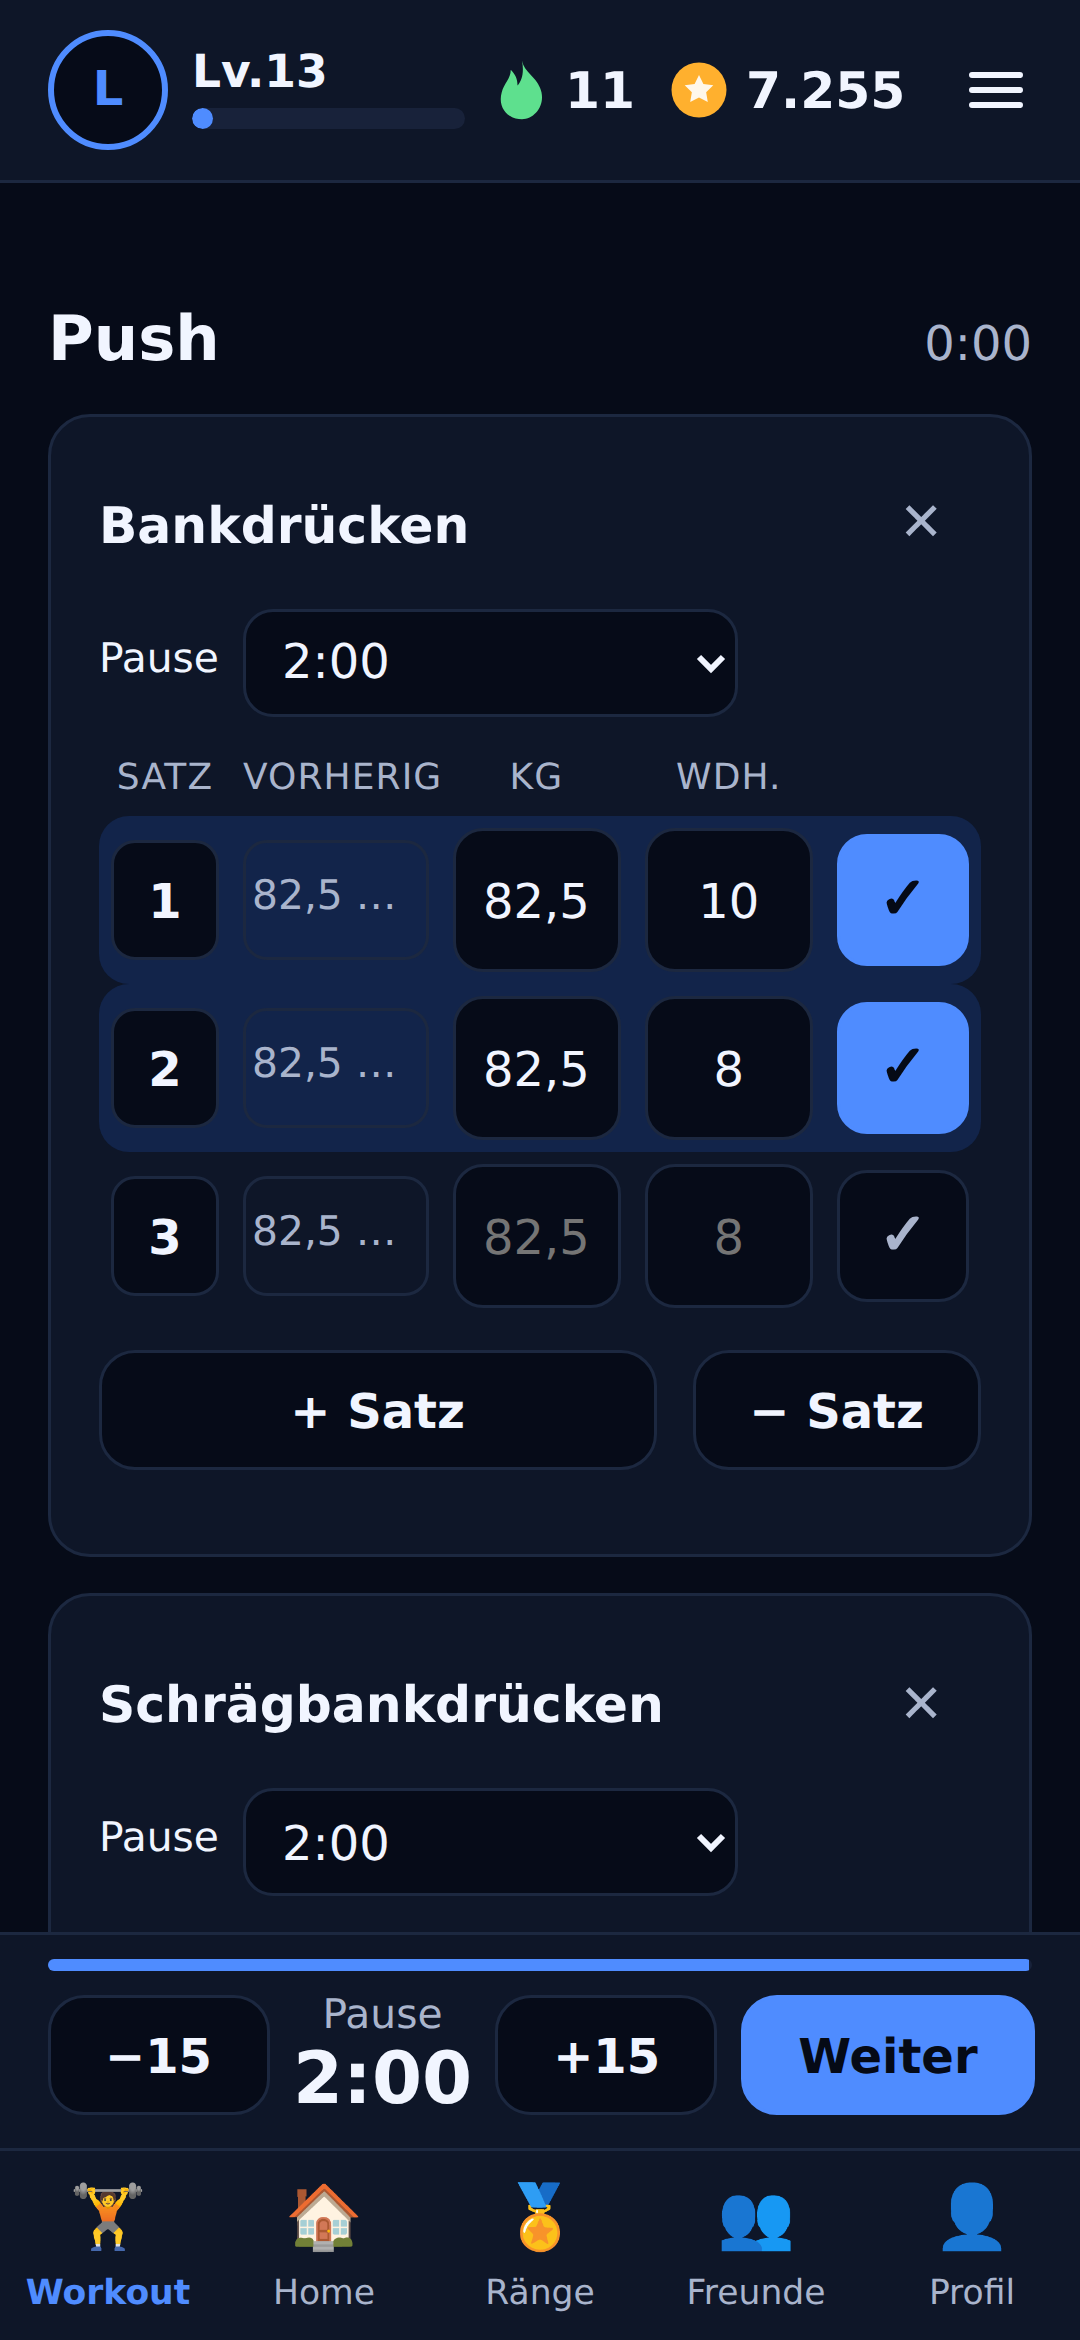
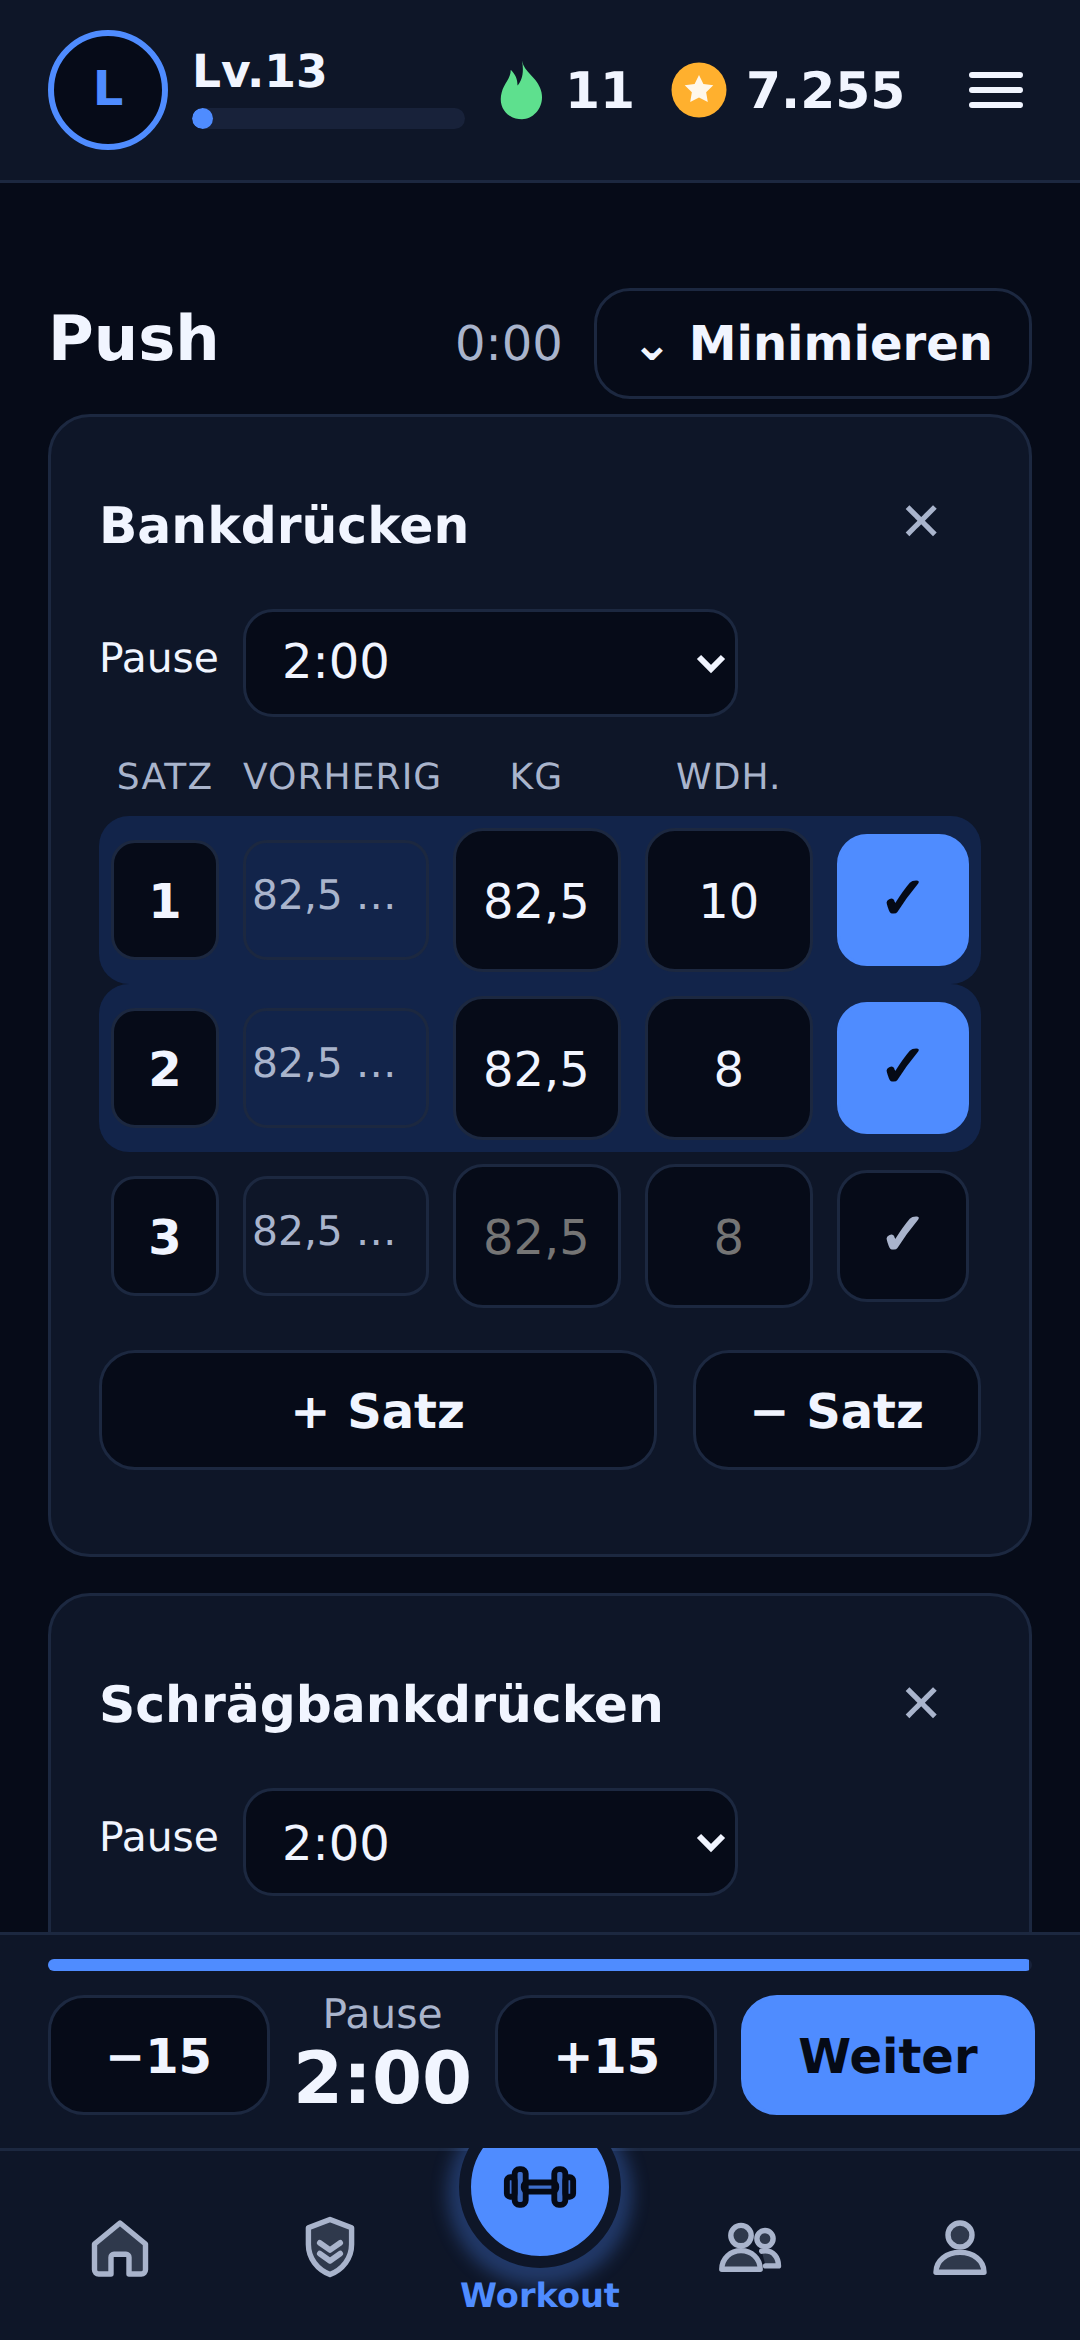
Neue untere Leiste mit Workout-Knopf in der Mitte und Zeile „Training läuft“
- Aufbau: Home · Ränge · [Workout-Knopf] · Freunde · Profil; der Knopf bleibt immer mittig
- Aktiver Reiter wird breiter und zeigt seinen Namen in einer Pille, dazu ein Balken oben
- Eigene Duoton-Symbole statt Emojis (übernehmen die Farbe des Farbschemas)
- Laufendes Training: „Minimieren“ im Training; überall sonst Zeile über der Leiste mit
  Name, Dauer, Sätzen und laufender Pause – ein Tipp führt zurück; der Workout-Knopf
  führt bei laufendem Training direkt ins Training
- Pausen-Signal auch, wenn man gerade auf einer anderen Seite ist
- Store-Screenshots mit neuer Leiste

Claude-Session: https://claude.ai/code/session_01PeHgdduGTBK2U9VqGsY3yd

diff --git a/web/src/styles.css b/web/src/styles.css
@@ -872,18 +872,64 @@ input[type="date"]::-webkit-calendar-picker-indicator { margin: 0; }
 
 .bottom-nav {
   position: fixed; left: 0; right: 0; bottom: 0; z-index: 10;
-  display: grid; grid-template-columns: repeat(5, 1fr);
+  display: flex; align-items: stretch; gap: 4px;
   height: calc(var(--nav-h) + env(safe-area-inset-bottom));
-  padding-bottom: env(safe-area-inset-bottom);
+  padding: 0 6px env(safe-area-inset-bottom);
   background: var(--surface); border-top: 1px solid var(--border);
 }
 .bottom-nav[hidden] { display: none; }
-.bottom-nav a {
-  display: flex; flex-direction: column; align-items: center; justify-content: center; gap: 2px;
-  font-size: 0.72rem; color: var(--text-secondary); text-decoration: none;
+.nav-group { flex: 1 1 0; min-width: 0; display: flex; align-items: stretch; gap: 2px; }
+.nav-icon { width: 24px; height: 24px; flex: none; }
+.nav-icon .nav-icon-detail { fill: none; stroke-width: 1.9; }
+/* Seiten-Reiter: nur Symbol; der aktive wird breiter und zeigt seinen Namen (Pille + Balken oben) */
+.bottom-nav .nav-tab {
+  position: relative; flex: 1 1 0; min-width: 0;
+  display: flex; align-items: center; justify-content: center; gap: 6px;
+  color: var(--text-secondary); text-decoration: none; font-weight: 700; font-size: 0.8rem;
+  transition: flex-grow 0.25s ease;
 }
-.bottom-nav a span { font-size: 1.3rem; }
-.bottom-nav a.active { color: var(--accent); font-weight: 700; }
+.bottom-nav .nav-tab .nav-label { position: absolute; width: 1px; height: 1px; overflow: hidden; clip: rect(0 0 0 0); white-space: nowrap; }
+.bottom-nav .nav-tab.active { flex-grow: 3; color: var(--accent); }
+.bottom-nav .nav-pill { display: inline-flex; align-items: center; gap: 5px; padding: 8px 10px; border-radius: 999px; max-width: 100%; transition: background 0.25s ease; }
+.bottom-nav .nav-tab.active .nav-pill { background: color-mix(in srgb, var(--accent) 14%, transparent); padding: 8px 10px 8px 8px; }
+.bottom-nav .nav-tab.active::before {
+  content: ""; position: absolute; top: 0; left: 50%; transform: translateX(-50%);
+  width: 22px; height: 3px; border-radius: 0 0 3px 3px; background: var(--accent);
+}
+.bottom-nav .nav-tab.active .nav-label { position: static; width: auto; height: auto; overflow: hidden; clip: auto; text-overflow: ellipsis; min-width: 0; }
+/* Workout-Knopf in der Mitte */
+.bottom-nav .nav-start {
+  flex: 0 0 64px; display: flex; flex-direction: column; align-items: center; justify-content: flex-end; gap: 2px;
+  padding-bottom: 6px; text-decoration: none; color: var(--accent); font-size: 0.7rem; font-weight: 800;
+}
+.nav-fab {
+  width: 54px; height: 54px; margin-top: -22px; border-radius: 50%;
+  display: grid; place-items: center; background: var(--accent); color: var(--accent-text);
+  border: 4px solid var(--surface); box-shadow: 0 6px 16px color-mix(in srgb, var(--accent) 40%, transparent);
+}
+.nav-fab .nav-icon { width: 26px; height: 26px; }
+.nav-start.running .nav-fab { animation: fab-pulse 2s ease-in-out infinite; }
+@keyframes fab-pulse { 50% { box-shadow: 0 0 0 6px color-mix(in srgb, var(--accent) 25%, transparent); } }
+@media (prefers-reduced-motion: reduce) { .bottom-nav .nav-tab { transition: none; } .nav-start.running .nav-fab { animation: none; } }
+
+/* Laufendes Training: Zeile über der Leiste */
+.workout-bar {
+  position: fixed; z-index: 11; left: 10px; right: 10px; max-width: 560px; margin: 0 auto;
+  bottom: calc(var(--nav-h) + env(safe-area-inset-bottom) + 10px);
+  display: flex; align-items: center; gap: 10px; padding: 9px 12px;
+  background: var(--accent); color: var(--accent-text); text-decoration: none;
+  border-radius: 14px; box-shadow: 0 8px 22px rgb(0 0 0 / 0.25);
+}
+.workout-bar .live-dot { width: 10px; height: 10px; border-radius: 50%; background: currentColor; flex: none; animation: live 1.4s ease-in-out infinite; }
+@keyframes live { 50% { opacity: 0.3; } }
+.workout-bar .wb-main { display: flex; flex-direction: column; min-width: 0; flex: 1; line-height: 1.2; }
+.workout-bar .wb-main strong { overflow: hidden; text-overflow: ellipsis; white-space: nowrap; }
+.workout-bar .wb-sub { font-size: 0.8rem; opacity: 0.85; font-variant-numeric: tabular-nums; }
+.workout-bar .wb-rest { font-weight: 800; font-variant-numeric: tabular-nums; background: color-mix(in srgb, currentColor 18%, transparent); border-radius: 999px; padding: 3px 9px; font-size: 0.85rem; white-space: nowrap; }
+.workout-bar .wb-go { font-size: 1.6rem; line-height: 1; font-weight: 700; }
+@media (prefers-reduced-motion: reduce) { .workout-bar .live-dot { animation: none; } }
+body.has-workout { padding-bottom: calc(var(--nav-h) + env(safe-area-inset-bottom) + 84px); }
+body.has-workout .toast { bottom: calc(var(--nav-h) + env(safe-area-inset-bottom) + 76px); }
 
 .toast {
   position: fixed; left: 16px; right: 16px; z-index: 20;
@@ -1308,3 +1354,10 @@ body.picker-open { overflow: hidden; }
 .check-mail .big-icon { font-size: 3rem; line-height: 1; margin: 4px 0 8px; }
 .check-mail .steps { text-align: left; margin: 12px auto; padding-left: 22px; max-width: 360px; display: grid; gap: 6px; }
 .check-mail .btn { margin-top: 10px; }
+.editor-head-right { display: inline-flex; align-items: center; gap: 10px; }
+.editor-head-right .btn { margin: 0; width: auto; min-height: 36px; padding: 6px 12px; }
+/* Sehr schmale Handys (z. B. iPhone SE 1. Generation): aktive Seite nur als Symbol in der Pille */
+@media (max-width: 359px) {
+  .bottom-nav .nav-tab.active { flex-grow: 1.6; }
+  .bottom-nav .nav-tab.active .nav-label { position: absolute; width: 1px; height: 1px; overflow: hidden; clip: rect(0 0 0 0); }
+}

diff --git a/web/src/components/Chrome.tsx b/web/src/components/Chrome.tsx
@@ -2,7 +2,9 @@
 import { useEffect, useRef, useState } from 'react';
 import { useApp } from '../app/context';
 import { displayName } from '../app/profile';
-import { sectionOf, useHash } from '../app/router';
+import { sectionOf, useHash, type Section } from '../app/router';
+import { hasDraft } from '../lib/editor';
+import { NavIcon, type NavIconId } from './NavIcons';
 import type { Game } from '../app/game';
 import { SCHEMA_VERSION } from '../data/config';
 import { useCosmetics } from '../lib/cosmetics';
@@ -111,24 +113,42 @@ export function SubNav() {
   );
 }
 
-const NAV: [string, string, string, string][] = [
-  ['#/workouts', 'workouts', '🏋', 'Workout'],
-  ['#/', 'home', '🏠', 'Home'],
-  ['#/raenge', 'raenge', '🏅', 'Ränge'],
-  ['#/freunde', 'freunde', '👥', 'Freunde'],
-  ['#/profil', 'profil', '👤', 'Profil'],
+// Aufbau: Home · Ränge · [Workout-Knopf in der Mitte] · Freunde · Profil.
+// Die aktive Seite wird breiter und zeigt ihren Namen; die übrigen zeigen nur das Symbol.
+const NAV_LEFT: [string, Section, NavIconId, string][] = [
+  ['#/', 'home', 'home', 'Home'],
+  ['#/raenge', 'raenge', 'raenge', 'Ränge'],
+];
+const NAV_RIGHT: [string, Section, NavIconId, string][] = [
+  ['#/freunde', 'freunde', 'freunde', 'Freunde'],
+  ['#/profil', 'profil', 'profil', 'Profil'],
 ];
 
 export function BottomNav() {
-  const section = sectionOf(useHash());
+  const hash = useHash();
+  const section = sectionOf(hash);
+  const running = hasDraft();
+  const item = ([href, id, icon, label]: [string, Section, NavIconId, string]) => (
+    <a key={id} href={href} data-section={id} className={`nav-tab${section === id ? ' active' : ''}`} aria-current={section === id ? 'page' : undefined}>
+      <span className="nav-pill">
+        <NavIcon id={icon} />
+        <span className="nav-label">{label}</span>
+      </span>
+    </a>
+  );
   return (
-    <nav id="nav" className="bottom-nav">
-      {NAV.map(([href, id, icon, label]) => (
-        <a key={id} href={href} data-section={id} className={section === id ? 'active' : ''}>
-          <span aria-hidden="true">{icon}</span>
-          {label}
-        </a>
-      ))}
+    <nav id="nav" className="bottom-nav" aria-label="Hauptnavigation">
+      <div className="nav-group">{NAV_LEFT.map(item)}</div>
+      <a
+        href={running ? '#/neu' : '#/workouts'}
+        data-section="workouts"
+        className={`nav-start${section === 'workouts' ? ' active' : ''}${running ? ' running' : ''}`}
+        aria-label={running ? 'Laufendes Training öffnen' : 'Workout starten'}
+      >
+        <span className="nav-fab"><NavIcon id="workout" /></span>
+        <span className="nav-start-label">Workout</span>
+      </a>
+      <div className="nav-group">{NAV_RIGHT.map(item)}</div>
     </nav>
   );
 }

diff --git a/web/src/pages/Home.tsx b/web/src/pages/Home.tsx
@@ -1,4 +1,4 @@
-// Home: Umschalter „Mein Feed | Freunde“, Begrüßung mit Rückblick, laufendes Training, Aufgaben, Körpergraph, Wochenstatistik.
+// Home: Umschalter „Mein Feed | Freunde“, Begrüßung mit Rückblick (laufendes Training: Zeile über der Leiste), Aufgaben, Körpergraph, Wochenstatistik.
 import { useState } from 'react';
 import { useApp } from '../app/context';
 import { useGame } from '../app/gameContext';
@@ -8,8 +8,8 @@ import { CreditsRules, LoadError, Loading, QuestRows, WorkoutList } from '../com
 import { ChartView } from '../components/ChartView';
 import { RecapCard } from '../components/Recap';
 import { migrateToCloud, migrationDone, readLocalData } from '../data/migrate';
-import { datedSets, loadDraft } from '../lib/editor';
-import { fmt, fmtDuration, fmtShortDate, plural } from '../lib/format';
+import { datedSets } from '../lib/editor';
+import { fmt, fmtShortDate, plural } from '../lib/format';
 import { strengthLevels } from '../lib/muscles';
 import { todayISO, weeklySummary } from '../lib/stats';
 import { APP_VERSION } from '../version';
@@ -76,24 +76,12 @@ export function Home() {
   const levels = strengthLevels(datedSets(g.workouts, g.sets), exerciseMap(), today);
   const thisWeek = weeks[weeks.length - 1];
   const lastWeight = weights.data[weights.data.length - 1];
-  const draft = loadDraft();
   const labels = weeks.map((w) => fmtShortDate(w.start));
 
   return (
     <>
       <HomeTabs active="mine" />
       <RecapCard workouts={g.workouts} sets={g.sets} today={today} />
-      {draft?.blocks.length ? (
-        <a className="card highlight resume-card" href="#/neu">
-          <div>
-            <strong>Laufendes Training{draft.name ? `: ${draft.name}` : ''}</strong>
-            <span className="muted small">
-              Gestartet vor {fmtDuration((Date.now() - draft.started_at) / 1000)} · {plural(draft.blocks.length, 'Übung', 'Übungen')}
-            </span>
-          </div>
-          <span className="btn primary">Fortsetzen</span>
-        </a>
-      ) : null}
       <MigrateCard />
       {api.mode === 'local' && (
         <p className="notice small">

diff --git a/web/src/components/WorkoutBar.tsx b/web/src/components/WorkoutBar.tsx
@@ -1,0 +1,41 @@
+// Zeile über der unteren Leiste, solange ein Training läuft und man es verlassen hat:
+// Name, Dauer, geschaffte Sätze und ggf. die laufende Pause – ein Tipp führt zurück ins Training.
+import { useEffect, useState, useSyncExternalStore } from 'react';
+import { useHash } from '../app/router';
+import { loadDraft } from '../lib/editor';
+import { fmtDuration } from '../lib/format';
+import { checkRestFinished, getRest, subscribeRest } from '../lib/timer';
+
+export function WorkoutBar() {
+  const hash = useHash();
+  const rest = useSyncExternalStore(subscribeRest, getRest);
+  const [, tick] = useState(0);
+  const draft = hash.startsWith('#/neu') ? null : loadDraft();
+  const visible = Boolean(draft?.blocks.length);
+  useEffect(() => {
+    document.body.classList.toggle('has-workout', visible);
+    if (!visible) return;
+    const t = setInterval(() => {
+      checkRestFinished(); // Pausen-Signal auch, wenn man gerade woanders in der App ist
+      tick((n) => n + 1);
+    }, 1000);
+    return () => clearInterval(t);
+  }, [visible]);
+  if (!draft || !visible) return null;
+  const sets = draft.blocks.flatMap((b) => b.sets);
+  const done = sets.filter((s) => s.done).length;
+  const restLeft = rest ? Math.max(0, Math.ceil((rest.endAt - Date.now()) / 1000)) : 0;
+  return (
+    <a className="workout-bar" id="workout-bar" href="#/neu" aria-label="Zurück zum laufenden Training">
+      <span className="live-dot" aria-hidden="true" />
+      <span className="wb-main">
+        <strong>{draft.name || 'Training'}</strong>
+        <span className="wb-sub">
+          {fmtDuration((Date.now() - draft.started_at) / 1000)} · {done}/{sets.length} Sätze
+        </span>
+      </span>
+      {restLeft > 0 && <span className="wb-rest">Pause {fmtDuration(restLeft)}</span>}
+      <span className="wb-go" aria-hidden="true">›</span>
+    </a>
+  );
+}

diff --git a/web/src/components/NavIcons.tsx b/web/src/components/NavIcons.tsx
@@ -1,0 +1,45 @@
+// Symbole der unteren Leiste (Duoton: leicht gefüllte Fläche + Kontur, übernehmen die Textfarbe).
+import type { ReactNode } from 'react';
+
+export type NavIconId = 'workout' | 'home' | 'raenge' | 'freunde' | 'profil';
+
+const PATHS: Record<NavIconId, ReactNode> = {
+  workout: (
+    <>
+      <rect x="7" y="10.6" width="10" height="2.8" rx="1.2" />
+      <rect x="4.2" y="6.5" width="3.4" height="11" rx="1.4" />
+      <rect x="16.4" y="6.5" width="3.4" height="11" rx="1.4" />
+      <rect x="1.8" y="9" width="2.4" height="6" rx="1" />
+      <rect x="19.8" y="9" width="2.4" height="6" rx="1" />
+    </>
+  ),
+  home: <path d="M3.5 11 12 4l8.5 7v8.6a1.4 1.4 0 0 1-1.4 1.4H15v-5.6a1 1 0 0 0-1-1h-4a1 1 0 0 0-1 1V21H4.9a1.4 1.4 0 0 1-1.4-1.4z" />,
+  raenge: (
+    <>
+      <path d="M12 2.8 19.2 5.6v5.6c0 4.6-3 8.4-7.2 10-4.2-1.6-7.2-5.4-7.2-10V5.6z" />
+      <path className="nav-icon-detail" d="M8.6 10.6 12 13l3.4-2.4M8.6 14.2 12 16.6l3.4-2.4" />
+    </>
+  ),
+  freunde: (
+    <>
+      <circle cx="9" cy="8.2" r="3.4" />
+      <path d="M2.6 19.4c0-3.6 2.9-6.2 6.4-6.2s6.4 2.6 6.4 6.2z" />
+      <circle cx="17" cy="9.2" r="2.7" />
+      <path d="M15.9 13.4c.4-.1.8-.1 1.2-.1 2.7 0 4.4 2.1 4.4 5h-4.3" />
+    </>
+  ),
+  profil: (
+    <>
+      <circle cx="12" cy="8" r="4" />
+      <path d="M4 20.4c0-4 3.6-6.6 8-6.6s8 2.6 8 6.6z" />
+    </>
+  ),
+};
+
+export function NavIcon({ id }: { id: NavIconId }) {
+  return (
+    <svg className="nav-icon" viewBox="0 0 24 24" aria-hidden="true" fill="currentColor" fillOpacity="0.22" stroke="currentColor" strokeWidth="1.8" strokeLinecap="round" strokeLinejoin="round">
+      {PATHS[id]}
+    </svg>
+  );
+}

diff --git a/web/src/components/RestTimer.tsx b/web/src/components/RestTimer.tsx
@@ -1,21 +1,24 @@
 // Leiste unten mit dem Pause-Timer (−15 / +15 / Weiter).
 import { useEffect, useState, useSyncExternalStore } from 'react';
+import { useHash } from '../app/router';
 import { fmtDuration } from '../lib/format';
 import { adjustRest, checkRestFinished, getRest, stopRest, subscribeRest } from '../lib/timer';
 
+/** Nur im Training selbst; außerhalb zeigt die Trainings-Zeile die Pause an. */
 export function RestTimer() {
+  const onEditor = useHash().startsWith('#/neu');
   const rest = useSyncExternalStore(subscribeRest, getRest);
   const [, tick] = useState(0);
   useEffect(() => {
-    document.body.classList.toggle('has-timer', Boolean(rest));
-    if (!rest) return;
+    document.body.classList.toggle('has-timer', Boolean(rest) && onEditor);
+    if (!rest || !onEditor) return;
     const t = setInterval(() => {
       checkRestFinished();
       tick((n) => n + 1);
     }, 250);
     return () => clearInterval(t);
-  }, [rest]);
-  if (!rest) return null;
+  }, [rest, onEditor]);
+  if (!rest || !onEditor) return null;
   const left = Math.max(0, (rest.endAt - Date.now()) / 1000);
   return (
     <div id="rest-timer" className="rest-timer" role="timer" aria-live="off">

diff --git a/web/src/pages/Editor.tsx b/web/src/pages/Editor.tsx
@@ -249,8 +249,13 @@ function EditorForm({ initial, prev }: { initial: EditorState; prev: Map<number,
       <div className="editor-head">
         <h2>{title}</h2>
         {live && (
-          <span className="muted" id="elapsed" aria-label="Trainingsdauer">
-            {fmtDuration((Date.now() - state.started_at) / 1000)}
+          <span className="editor-head-right">
+            <span className="muted" id="elapsed" aria-label="Trainingsdauer">
+              {fmtDuration((Date.now() - state.started_at) / 1000)}
+            </span>
+            <button type="button" className="btn small-btn" id="minimize" onClick={() => navigate('#/')} title="Training läuft weiter – unten zurückkehren">
+              ⌄ Minimieren
+            </button>
           </span>
         )}
       </div>

diff --git a/web/src/app/App.tsx b/web/src/app/App.tsx
@@ -2,6 +2,7 @@
 import { useCallback, useEffect, useRef, useState, type ReactNode } from 'react';
 import { BottomNav, DbUpdateBanner, Header, SubNav, UpdateBanner } from '../components/Chrome';
 import { PreviewBar } from '../components/PreviewBar';
+import { WorkoutBar } from '../components/WorkoutBar';
 import { RestTimer } from '../components/RestTimer';
 import type { Backend } from '../data/backend';
 import { createBackend } from '../data/api';
@@ -111,6 +112,7 @@ function Shell() {
       <main id="view" className="container" key={hash}>
         {page}
       </main>
+      <WorkoutBar />
       <BottomNav />
       <RestTimer />
       <PreviewBar />

diff --git a/web/src/version.ts b/web/src/version.ts
@@ -1,3 +1,3 @@
 // Muss sich bei jeder Veröffentlichung ändern: Die App vergleicht sie mit version.json auf dem Server
 // und bietet dann ein Update an. version.json wird beim Build aus diesem Wert erzeugt (vite.config.ts).
-export const APP_VERSION = '2026-10-02 · 38 (Datenbank-Hinweis, Store-Vorbereitung)';
+export const APP_VERSION = '2026-10-02 · 39 (Neue Leiste)';
